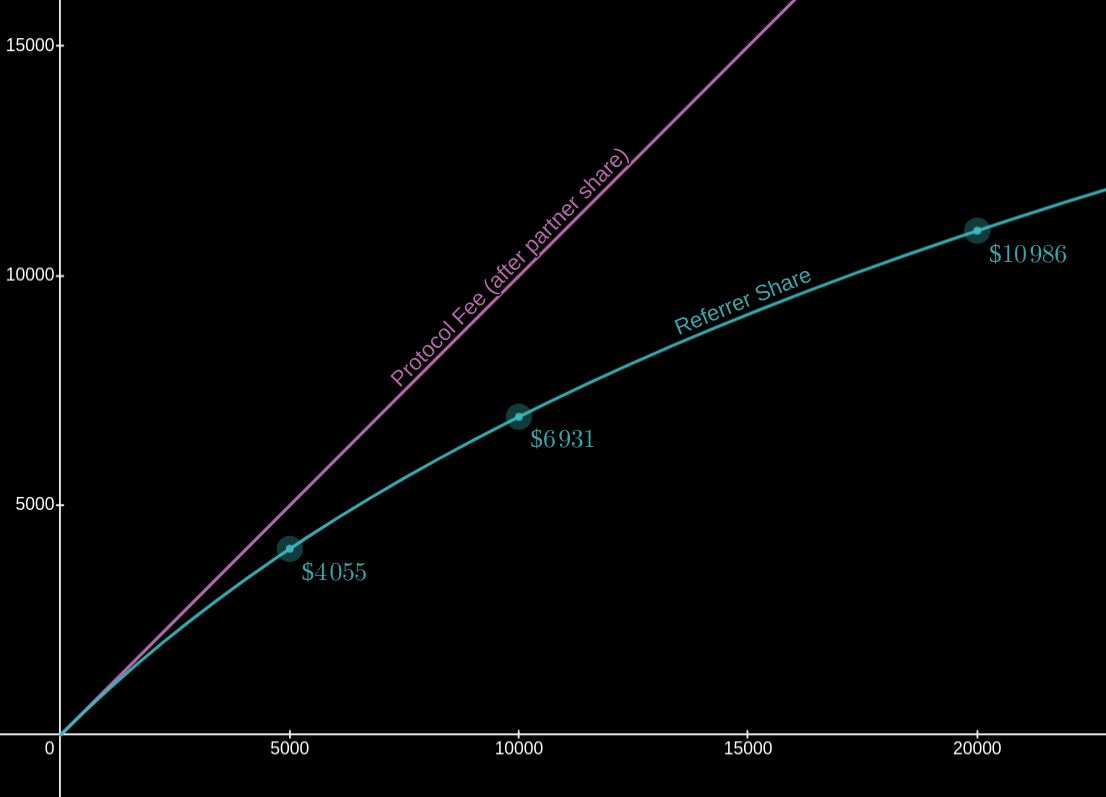
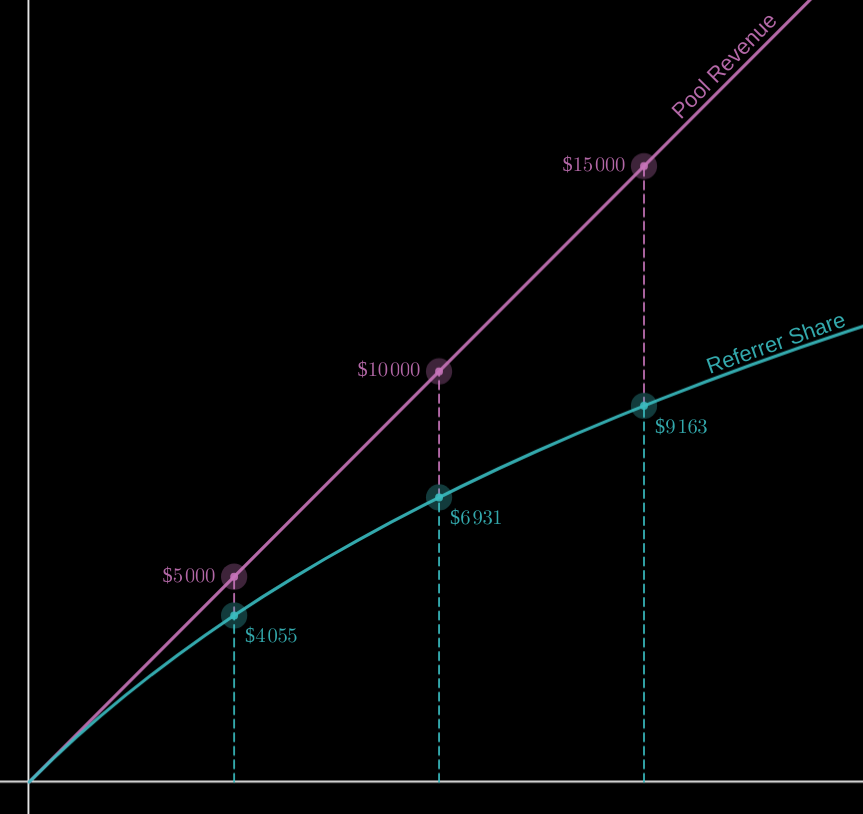
GITBOOK-217: change request with no subject merged in GitBook

diff --git a/intro/leverage.md b/intro/leverage.md
@@ -2,7 +2,7 @@
 
 Leverage is one of the most useful tools in finance, especially in derivatives trading. When used wisely, leverage can enhance profitability, accelerate wealth growth, maximize opportunities, and optimize capital allocation. However, it is a double-edged sword that is incredibly hard to control. This is mainly because leverage traders are exposed to “liquidation risks”.
 
-<figure><img src="../.gitbook/assets/image (1) (1) (1).png" alt="" width="563"><figcaption><p>Linear Leverage</p></figcaption></figure>
+<figure><img src="../.gitbook/assets/image (1) (1) (1) (1).png" alt="" width="563"><figcaption><p>Linear Leverage</p></figcaption></figure>
 
 Compared to holding $10 of ETH, borrowing $20 and opening a $30 Long 3x position will have 3 times more exposure to the ETH price but also to the liquidation risk. As the ETH price decreases, the balance decreases 3 times faster toward $0 while the loan is still $20, increasing the debt-to-balance rate to infinity, which is when the liquidation happens.
 

diff --git a/partner/launchpad.md b/partner/launchpad.md
@@ -1,5 +1,14 @@
-# Launchpad Integration
+# Launchpad
 
 The first partnership we are seeking is with Launchpads to integrate with [ifo.md](../apps/ifo.md "mention"). Our launchpad partners will directly receive a majority of our protocol fee. Anyone who contributes to a successful partnership will receive a Referrer Share from the protocol fee, after deducting the partner's share.
 
-<figure><img src="../.gitbook/assets/image (57).png" alt=""><figcaption></figcaption></figure>
+<figure><img src="../.gitbook/assets/image.png" alt=""><figcaption></figcaption></figure>
+
+Referrer share calculation from pool fee, after deducting the partner's share (for reference only):
+
+* referrer receives \~$4k for the first $5k pool revenue
+* referrer receives \~$7k for the first $10k pool revenue
+* referrer receives \~$9k for the first $15k pool revenue
+
+Formula: $$10k \times ln({revenue \over 10k} + 1)$$
+

diff --git a/protocol/oracle.md b/protocol/oracle.md
@@ -6,6 +6,6 @@ Uniswap v3 Oracle is chosen for its availability and composability. Any token pa
 
 Uniswap Oracle provides both TWAP and SPOT prices. Derivable's double price system is another novel mechanism for derivative pricing as the price prediction is crucial and any market latency can be exploited.
 
-<figure><img src="../.gitbook/assets/image (1) (1).png" alt=""><figcaption><p>Double Price System</p></figcaption></figure>
+<figure><img src="../.gitbook/assets/image (1) (1) (1).png" alt=""><figcaption><p>Double Price System</p></figcaption></figure>
 
 The double price system enforces the conversion rate to use the less beneficial result of the 2 prices. This system serves 2 purposes: (A) preventing price manipulation by arbitrageurs and (B) taking volatility fees for the Liquidity Provider in their unfavorable market.
